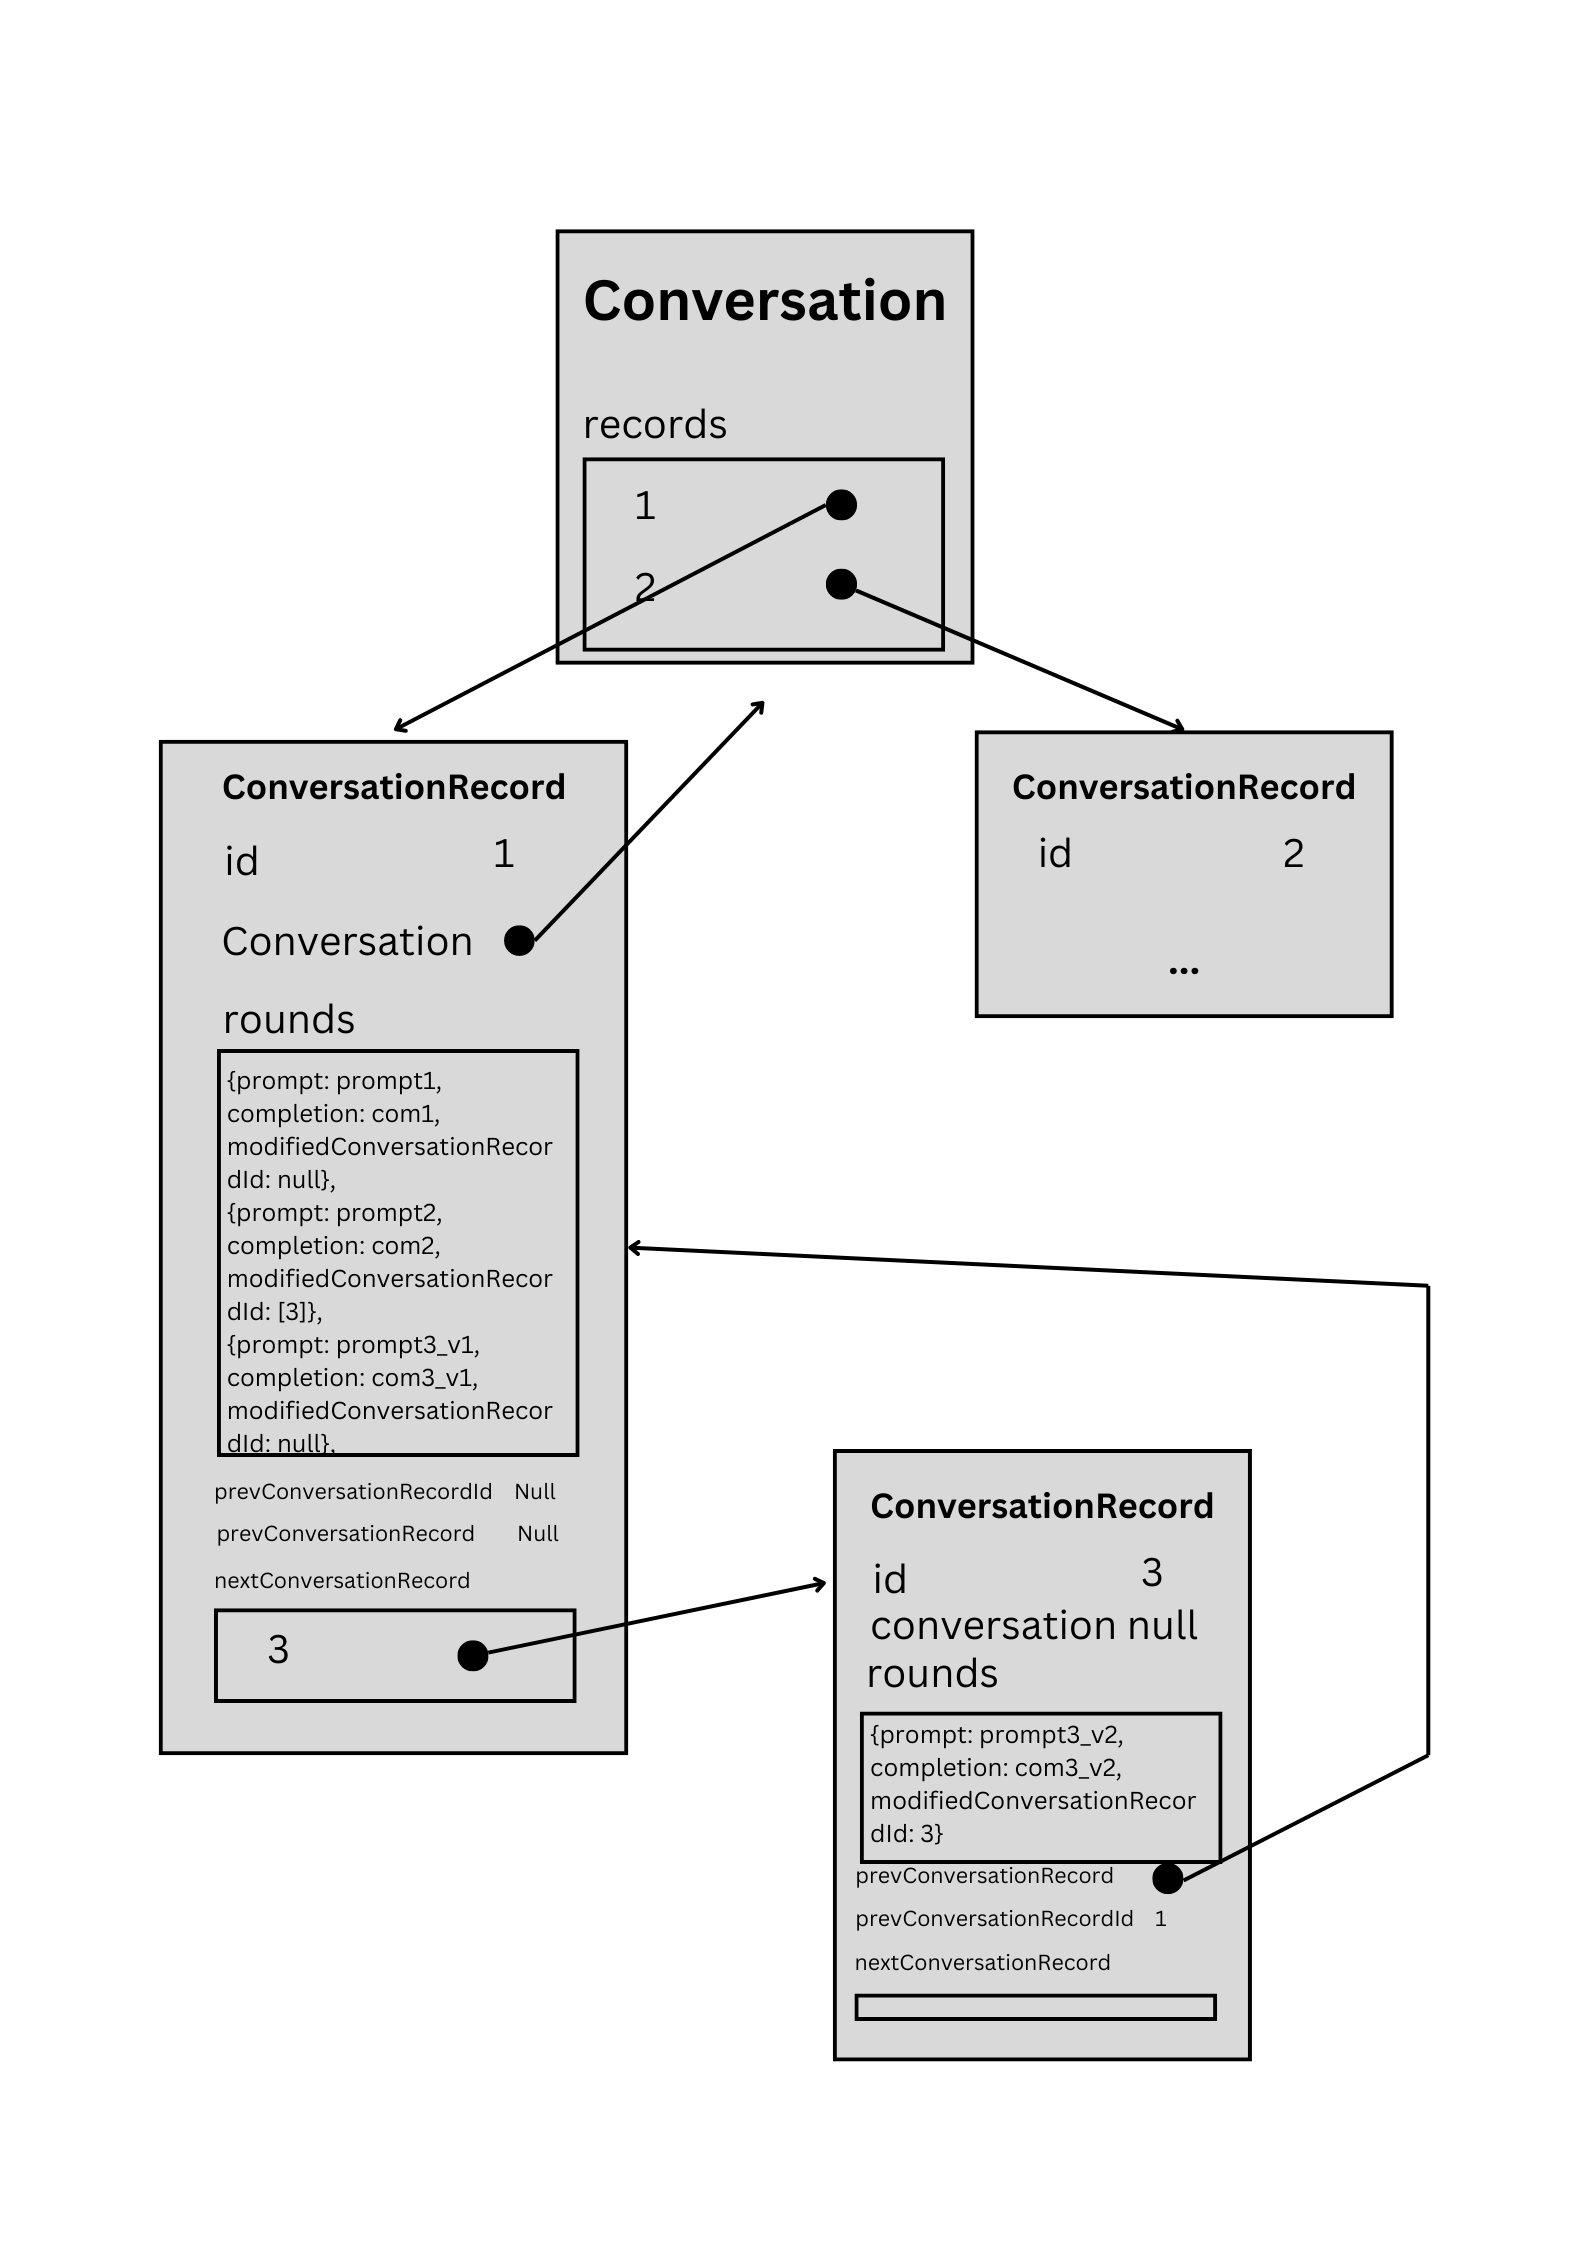
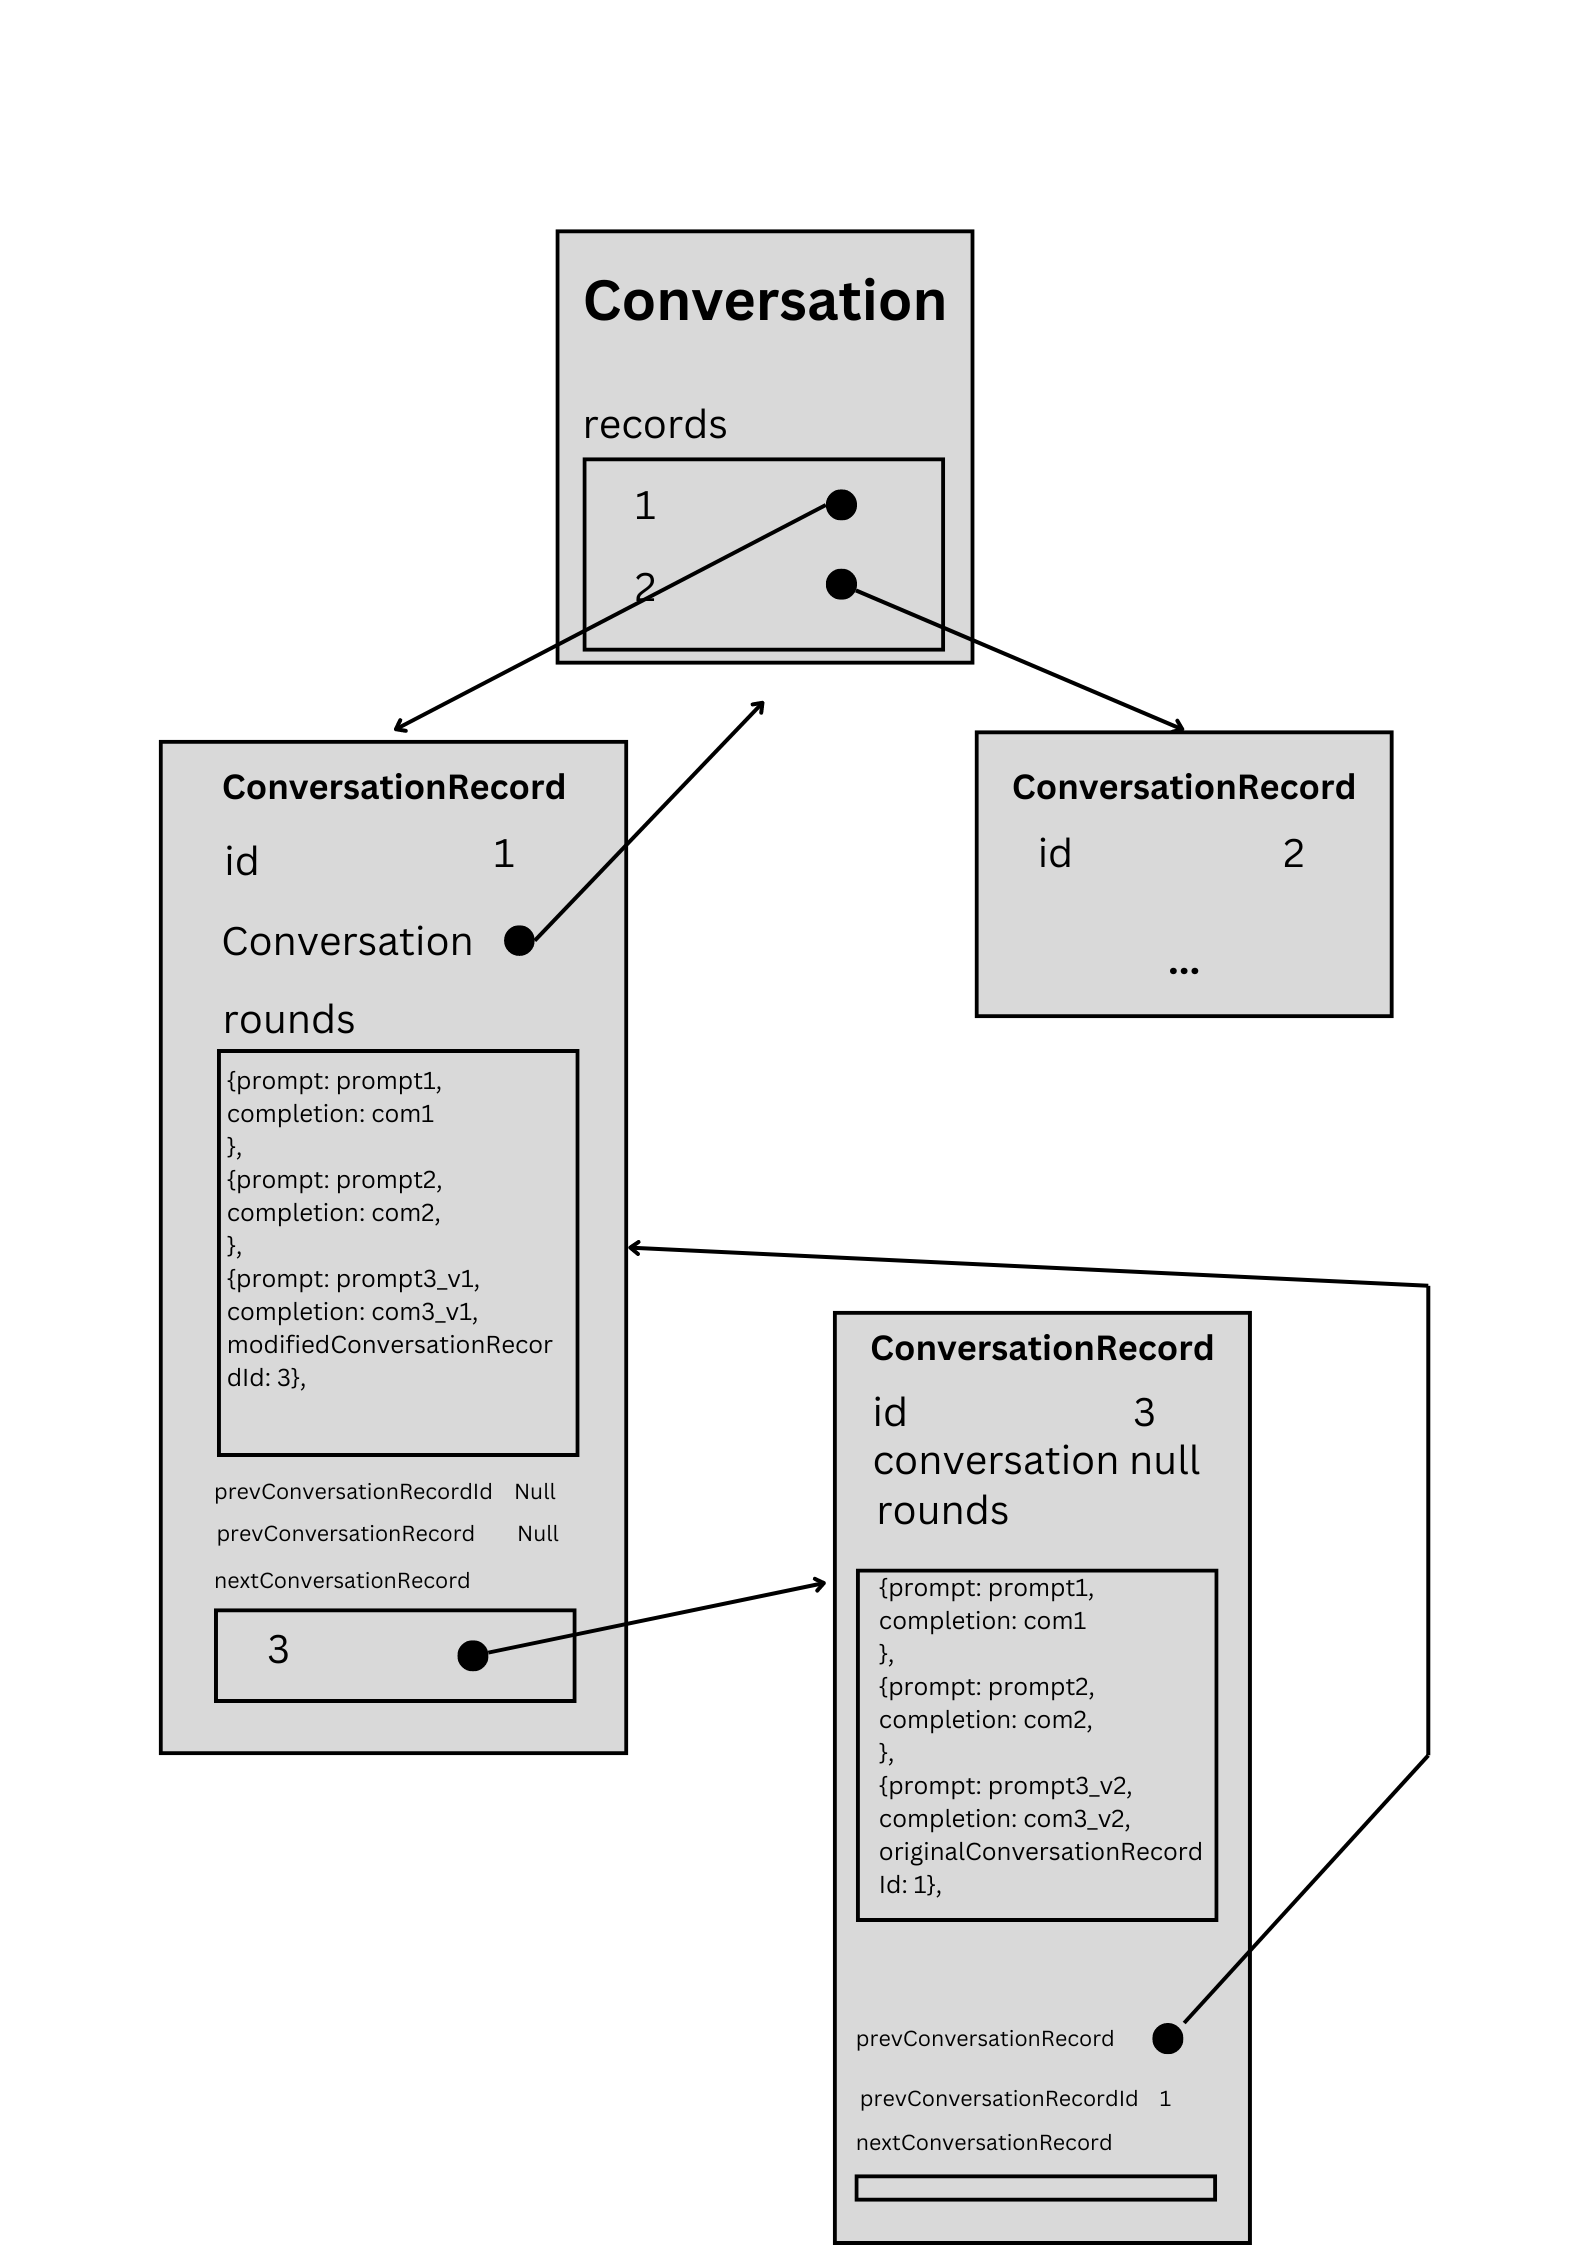
fix(regenerate): modify the way of schema storage
Please refer to the new README_FOR_SCHEMA

Changed region(s): [[0.5249, 0.5612, 0.8028, 1.0], [0.1235, 0.4989, 0.3088, 0.6548], [0.8645, 0.7795, 0.8954, 0.8107]]

diff --git a/README_FOR_SCHEMA.md b/README_FOR_SCHEMA.md
@@ -41,8 +41,10 @@ The prevConversationRecord and nextConversationRecord part is a little be tricky
 
 ![Illustration of the schema](./public/conversation_schema_explanation.png)
 
-Once the conversation is modified, a new ConversationRecord object will be created. The modifiedConversationRecordIds indicates the different version of modifications of the conversation, which difference starts from this specific ConversationRound.
+Once the conversation is modified, a new ConversationRecord object will be created. The modifiedConversationRecordId indicates modification of the conversation, which difference starts from this specific ConversationRound. The originalConversationRecordId indicates the original version of the conversation. modifiedConversationRecordId and originalConversationRecordId should always be in a pair in order to keep the relation.
 
 The prevConversationRecordId indicates the previous version of the conversation, if the conversation is a root conversation, the prevConversationRecordId will be null. The conversation attribute of the ConversationRecord object indicates the conversation that the ConversationRecord belongs to, if the conversation is NOT a root conversation, the conversation attribute will be null.
 
-The nextConversationRecords indicates the next versions of the conversation, all ConversationRecord objects appearing in the ConversationRound.modifiedConversationRecordIds will be stored in the nextConversationRecords to keep the relationship between the ConversationRecord objects. The reason why we do not include the nextConversationRecords is because in Prisma we cannot use relation in Type object, so we need a way to work around this limitation.
+The nextConversationRecords indicates the next versions of the conversation, all ConversationRecord objects appearing in the ConversationRound.
+
+The reason why we do not include the nextConversationRecords is because in Prisma we cannot use relation in Type object, so we need a way to work around this limitation.
